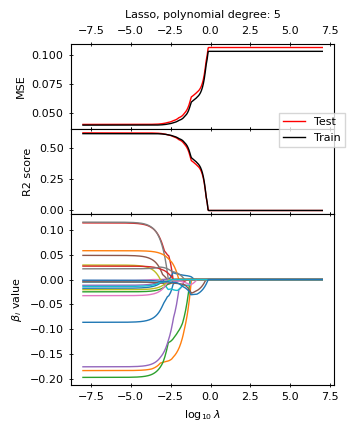
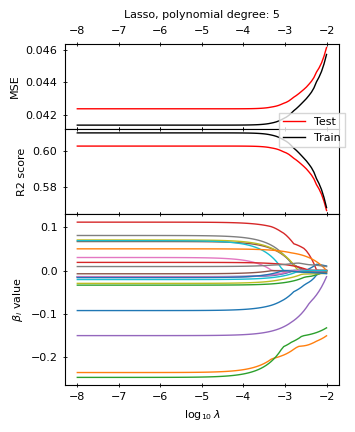
Tweaked plots

diff --git a/project1/src.py b/project1/src.py
@@ -27,7 +27,10 @@ plt.rcParams.update({
     'ytick.labelsize': 8,
     'legend.fontsize': 8,
     'legend.fancybox': False,
-    'savefig.bbox': 'tight'
+    'savefig.bbox': 'tight',
+    'axes.formatter.use_mathtext': True,
+    'axes.formatter.useoffset': False,
+    'axes.formatter.limits': [-2, 4]
 })
 
 def set_size(width='col', scale=1.0, subplot=(1, 1)):
@@ -353,6 +356,7 @@ class Regression:
 
         min_ridge = np.min(self.mse_ridge_test)
         min_lasso = np.min(self.mse_lasso_test)
+        abs_diff = abs(min_ridge - min_lasso)
         best_r2_ridge = np.max(self.r2_ridge_test)
         best_r2_lasso = np.max(self.r2_lasso_test)
         
@@ -366,6 +370,7 @@ class Regression:
 
         print(Ridge_results)
         print(Lasso_results)
+        print(f'Absolute difference between Ridge and Lasso MSE: {abs_diff:.3e}')
 
         self.Ridge_results = Ridge_results
         self.Lasso_results = Lasso_results
@@ -446,12 +451,11 @@ class Regression:
                 y02 = y_center + y_diff
 
                 axins0 = ax[0].inset_axes(
-                    [0.1, 0.5, 0.25, 0.3],
+                    [0.25, 0.45, 0.25, 0.3],
                     # [x[0], 0.055, 4.5, 0.02],
                     # transform=ax[0].transData,
                     xlim=(x01, x02),
-                    ylim=(y01, y02),
-                    yticklabels=[]
+                    ylim=(y01, y02)
                 )
 
                 axins0.plot(x, mse_test, 'r')
@@ -474,12 +478,11 @@ class Regression:
                 y12 = y_center + y_diff
 
                 axins1 = ax[1].inset_axes(
-                    [0.1, 0.2, 0.25, 0.3],
+                    [0.25, 0.3, 0.25, 0.3],
                     # [x[0], 0.32, 4.5, 0.175],
                     # transform=ax[1].transData,
                     xlim=(x11, x12),
-                    ylim=(y11, y12),
-                    yticklabels=[]
+                    ylim=(y11, y12)
                 )
 
                 axins1.plot(x, r2_test, 'r')

diff --git a/project1/geodata.py b/project1/geodata.py
@@ -24,12 +24,14 @@ xmesh, ymesh = np.meshgrid(n_x, n_y)
 terrain = _terrain[xmesh, ymesh]
 
 reg = Regression(xmesh.ravel(), ymesh.ravel(), terrain.ravel(), 'geodata')
-_, __ = reg.OLS(21, store_beta=False)
-reg.plot_evolution('OLS')
+# _, __ = reg.OLS(21, store_beta=False)
+# reg.plot_evolution('OLS')
 ridge_lasso_p, ridge_beta, lasso_beta = reg.ridge_and_lasso(-8, -2, 5, 100)
-print(reg.OLS_results)
+# print(reg.OLS_results)
 reg.plot_evolution('ridge')
-reg.plot_evolution('lasso')
+# reg.plot_evolution('lasso')
+plt.show()
+exit()
 reg.bias_variance_tradeoff(max_degree=31, n_bootstraps=100) # 100 samples
 reg.cross_validation(n_kfolds=10)
 
